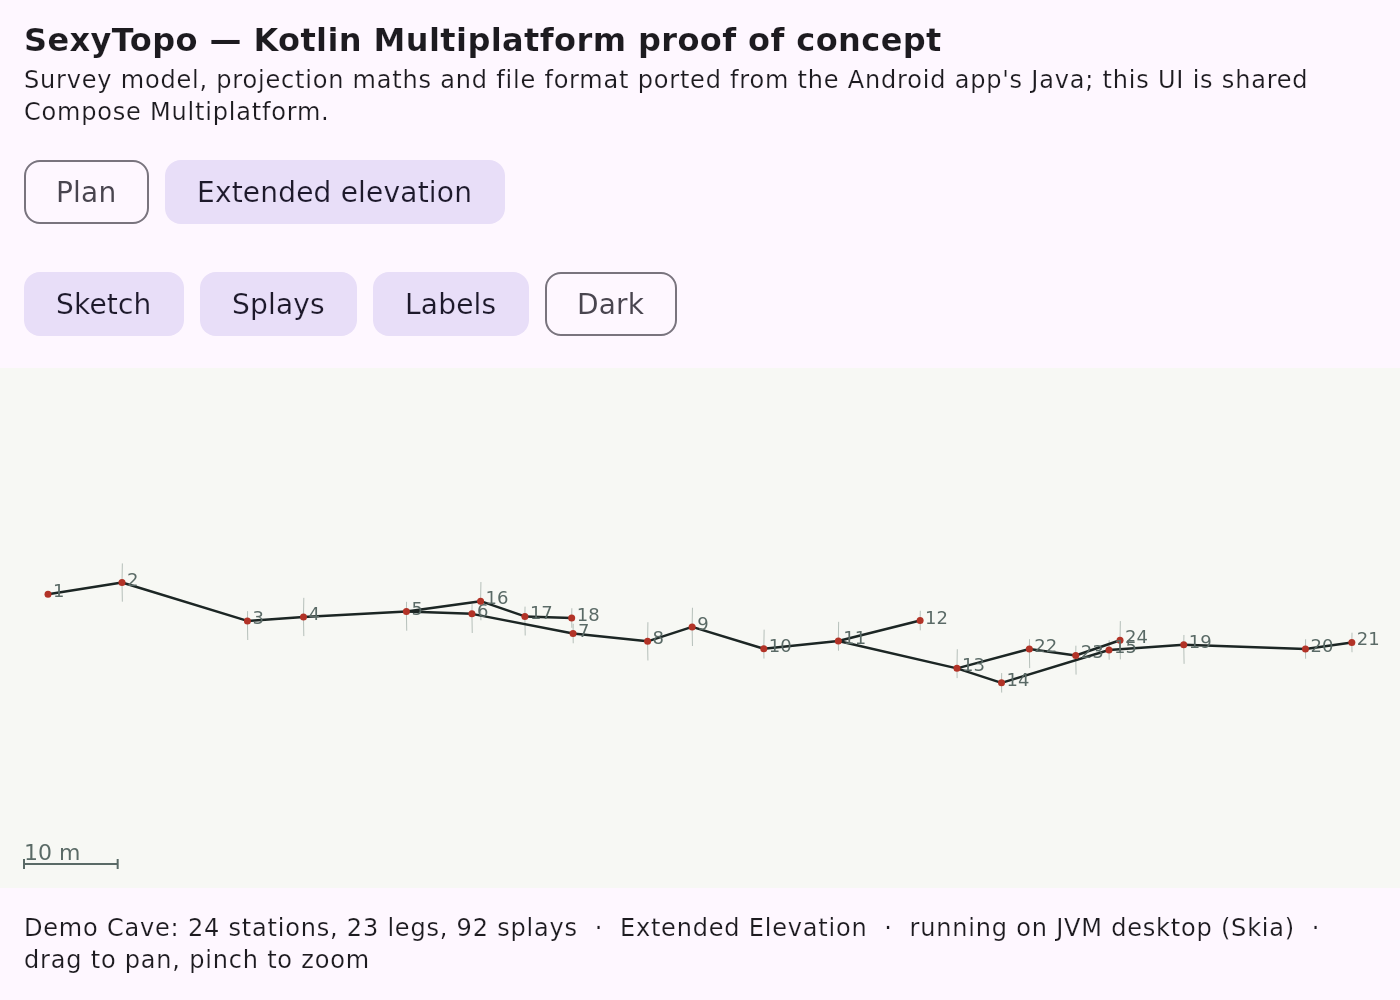
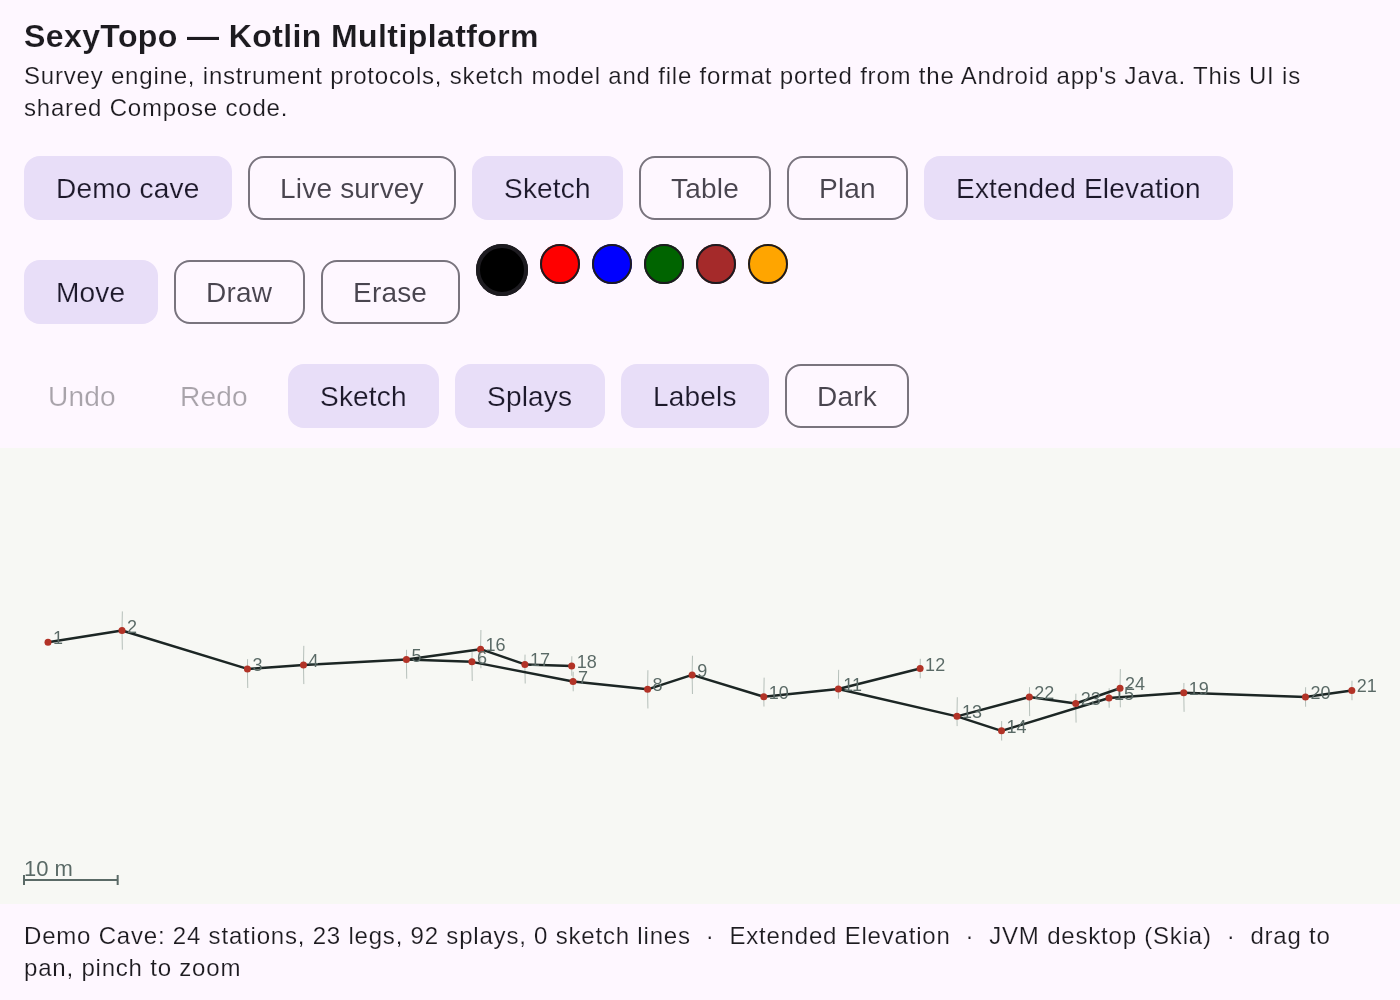
Add the survey table screen, and fix a rounding divergence from Java
The table is the other half of the Android app's main UI. Its substance is not the
layout but the backwards-shot normalisation ported from
GraphToListTranslator.toAsTakenReading: a leg shot from the far station is stored
pointing the other way, so from/to are swapped and the reading reversed, or the
displayed numbers disagree with the surveyor's notebook.

Writing its number formatting turned up a real divergence. commonMain has no
String.format, and the obvious replacement -- kotlin.math.round -- is ties-to-even
(it maps to Math.rint), while Java's Formatter is HALF_UP. round(2.5) gives 2, not
3. Every number the Android app has ever written to a Therion or Survex file uses
HALF_UP, so the port now does floor(x + 0.5) and a test pins it. The exporters will
need exactly the same behaviour.

Nine more tests, and demo renders now include the table.

Claude-Session: https://claude.ai/code/session_01EsWeeGYHa4RrEbZW2iXKma

diff --git a/kmp/demo/src/commonMain/kotlin/org/hwyl/sexytopo/demo/SurveyTableView.kt b/kmp/demo/src/commonMain/kotlin/org/hwyl/sexytopo/demo/SurveyTableView.kt
@@ -1,0 +1,165 @@
+package org.hwyl.sexytopo.demo
+
+import androidx.compose.foundation.background
+import androidx.compose.foundation.horizontalScroll
+import androidx.compose.foundation.layout.Column
+import androidx.compose.foundation.layout.Row
+import androidx.compose.foundation.layout.fillMaxSize
+import androidx.compose.foundation.layout.fillMaxWidth
+import androidx.compose.foundation.layout.padding
+import androidx.compose.foundation.layout.width
+import androidx.compose.foundation.lazy.LazyColumn
+import androidx.compose.foundation.lazy.items
+import androidx.compose.foundation.rememberScrollState
+import androidx.compose.material3.HorizontalDivider
+import androidx.compose.material3.MaterialTheme
+import androidx.compose.material3.Text
+import androidx.compose.runtime.Composable
+import androidx.compose.runtime.remember
+import androidx.compose.ui.Modifier
+import androidx.compose.ui.text.font.FontWeight
+import androidx.compose.ui.unit.dp
+import androidx.compose.ui.unit.sp
+import org.hwyl.sexytopo.shared.model.survey.Leg
+import org.hwyl.sexytopo.shared.model.survey.Station
+import org.hwyl.sexytopo.shared.model.survey.Survey
+import org.hwyl.sexytopo.shared.survey.asBacksight
+
+/**
+ * The survey table — the other half of the Android app's main UI, alongside the sketch.
+ *
+ * The interesting part is not the layout but [asTakenRows]: a leg shot backwards is stored pointing
+ * the other way, and both the table and every exporter must show the reading *as the surveyor took
+ * it*, or the numbers will not match their notes.
+ */
+@Composable
+fun SurveyTableView(survey: Survey, revision: Int, modifier: Modifier = Modifier) {
+    val rows = remember(survey, revision) { asTakenRows(survey) }
+
+    Column(modifier.fillMaxSize()) {
+        Row(
+            Modifier
+                .fillMaxWidth()
+                .background(MaterialTheme.colorScheme.surfaceVariant)
+                .horizontalScroll(rememberScrollState())
+                .padding(horizontal = 12.dp, vertical = 6.dp),
+        ) {
+            HeaderCell("From", 64.dp)
+            HeaderCell("To", 64.dp)
+            HeaderCell("Distance", 92.dp)
+            HeaderCell("Azimuth", 84.dp)
+            HeaderCell("Inclination", 92.dp)
+        }
+        HorizontalDivider()
+
+        LazyColumn(Modifier.fillMaxSize()) {
+            items(rows) { row ->
+                Row(Modifier.fillMaxWidth().padding(horizontal = 12.dp, vertical = 3.dp)) {
+                    Cell(row.from, 64.dp)
+                    Cell(row.to, 64.dp)
+                    Cell(row.distance, 92.dp)
+                    Cell(row.azimuth, 84.dp)
+                    Cell(row.inclination, 92.dp)
+                }
+            }
+        }
+    }
+}
+
+@Composable
+private fun HeaderCell(text: String, width: androidx.compose.ui.unit.Dp) {
+    Text(
+        text,
+        Modifier.width(width),
+        style = MaterialTheme.typography.labelSmall,
+        fontWeight = FontWeight.SemiBold,
+    )
+}
+
+@Composable
+private fun Cell(text: String, width: androidx.compose.ui.unit.Dp) {
+    Text(text, Modifier.width(width), fontSize = 12.sp, style = MaterialTheme.typography.bodySmall)
+}
+
+/** One row of the table, already formatted. */
+class SurveyTableRow(
+    val from: String,
+    val to: String,
+    val distance: String,
+    val azimuth: String,
+    val inclination: String,
+)
+
+/**
+ * Flattens the survey tree into table rows in chronological order, normalising backwards shots.
+ *
+ * Ported from `GraphToListTranslator.toAsTakenReading`: a leg with `wasShotBackwards` is stored
+ * with the reading taken at the far station but attached in the opposite direction, so from/to are
+ * swapped and the leg is converted to its backsight before being displayed.
+ */
+fun asTakenRows(survey: Survey): List<SurveyTableRow> {
+    val rows = mutableListOf<SurveyTableRow>()
+
+    for (station in survey.getAllStations()) {
+        for (leg in station.onwardLegs) {
+            rows.add(rowFor(station, leg))
+        }
+    }
+    return rows
+}
+
+private fun rowFor(from: Station, leg: Leg): SurveyTableRow {
+    val (fromName, toName, reading) =
+        if (leg.wasShotBackwards) {
+            Triple(leg.destination.name, from.name, leg.asBacksight())
+        } else {
+            Triple(from.name, if (leg.hasDestination()) leg.destination.name else SPLAY, leg)
+        }
+
+    return SurveyTableRow(
+        from = fromName,
+        to = toName,
+        // Same precision as the Android app's TableCol formats: %.3f, %.2f, %+.2f.
+        distance = formatFixed(reading.distance, 3),
+        azimuth = formatFixed(reading.azimuth, 2),
+        inclination = formatFixed(reading.inclination, 2, alwaysSigned = true),
+    )
+}
+
+private const val SPLAY = "–"
+
+/**
+ * Fixed-decimal formatting, because commonMain has no `String.format`.
+ *
+ * Rounds half away from zero on the magnitude, matching Java's `Formatter` HALF_UP. This will move
+ * to the shared module alongside the exporters, which need exactly the same behaviour to reproduce
+ * Therion and Survex output byte for byte.
+ */
+fun formatFixed(value: Float, decimalPlaces: Int, alwaysSigned: Boolean = false): String {
+    if (value.isNaN()) return "NaN"
+    if (value.isInfinite()) return if (value > 0) "∞" else "-∞"
+
+    var scale = 1L
+    repeat(decimalPlaces) { scale *= 10 }
+
+    val magnitude = kotlin.math.abs(value.toDouble())
+    // floor(x + 0.5), NOT kotlin.math.round: Kotlin's round is ties-to-even (it maps to
+    // Math.rint), whereas Java's Formatter — and so every number the Android app has ever
+    // written to a Therion or Survex file — is HALF_UP. round(2.5) would give 2, not 3.
+    val scaled = kotlin.math.floor(magnitude * scale + 0.5).toLong()
+    val whole = scaled / scale
+    val fraction = scaled % scale
+
+    val sign =
+        when {
+            value < 0 -> "-"
+            alwaysSigned -> "+"
+            else -> ""
+        }
+
+    return if (decimalPlaces == 0) {
+        "$sign$whole"
+    } else {
+        "$sign$whole.${fraction.toString().padStart(decimalPlaces, '0')}"
+    }
+}

diff --git a/kmp/demo/src/jvmTest/kotlin/org/hwyl/sexytopo/demo/SurveyTableTest.kt b/kmp/demo/src/jvmTest/kotlin/org/hwyl/sexytopo/demo/SurveyTableTest.kt
@@ -1,0 +1,109 @@
+package org.hwyl.sexytopo.demo
+
+import org.hwyl.sexytopo.shared.model.survey.Leg
+import org.hwyl.sexytopo.shared.model.survey.Station
+import org.hwyl.sexytopo.shared.model.survey.Survey
+import org.hwyl.sexytopo.shared.survey.SurveyBuilder
+import kotlin.test.Test
+import kotlin.test.assertEquals
+import kotlin.test.assertTrue
+
+/**
+ * The table's job is to show what the surveyor wrote in their notes, which for a backwards shot is
+ * not what is stored. Getting this wrong makes every exported file disagree with the notebook.
+ */
+class SurveyTableTest {
+
+    @Test
+    fun aForwardLegIsShownAsStored() {
+        val survey = Survey("T")
+        SurveyBuilder.updateWithNewStation(survey, Leg(5.5f, 90f, 10f))
+
+        val row = asTakenRows(survey).single()
+        assertEquals("1", row.from)
+        assertEquals("2", row.to)
+        assertEquals("5.500", row.distance)
+        assertEquals("90.00", row.azimuth)
+        assertEquals("+10.00", row.inclination)
+    }
+
+    @Test
+    fun aBackwardsShotIsShownAsItWasTaken() {
+        // Stored 1 -> 2, but read at station 2 pointing back at 1. The table must show 2 -> 1 with
+        // the reversed bearing, matching the notebook.
+        val survey = Survey("T")
+        val destination = Station("2")
+        val leg = Leg(5f, 90f, 10f, destination, wasShotBackwards = true)
+        survey.origin.addOnwardLeg(leg)
+        survey.addLegRecord(leg)
+
+        val row = asTakenRows(survey).single()
+        assertEquals("2", row.from, "the reading was taken at the far station")
+        assertEquals("1", row.to)
+        assertEquals("270.00", row.azimuth, "bearing is reversed")
+        assertEquals("-10.00", row.inclination, "inclination is negated")
+    }
+
+    @Test
+    fun splaysAreShownWithNoDestination() {
+        val survey = Survey("T")
+        SurveyBuilder.addSplay(survey, survey.origin, Leg(1.25f, 45f, 0f))
+
+        val row = asTakenRows(survey).single()
+        assertEquals("1", row.from)
+        assertTrue(row.to.isNotEmpty() && row.to != "1", "a splay has no real destination")
+        assertEquals("1.250", row.distance)
+        assertEquals("+0.00", row.inclination)
+    }
+
+    @Test
+    fun everyLegAppearsExactlyOnce() {
+        val survey = Survey("T")
+        SurveyBuilder.updateWithNewStation(survey, Leg(5f, 0f, 0f))
+        SurveyBuilder.addSplay(survey, survey.activeStation, Leg(2f, 90f, 0f))
+        SurveyBuilder.updateWithNewStation(survey, Leg(6f, 10f, 0f))
+
+        assertEquals(survey.getAllLegs().size, asTakenRows(survey).size)
+    }
+
+    // ---------------------------------------------------------------------------------------
+    // Fixed-decimal formatting (commonMain has no String.format)
+    // ---------------------------------------------------------------------------------------
+
+    @Test
+    fun formattingMatchesJavaPrecision() {
+        assertEquals("5.500", formatFixed(5.5f, 3))
+        assertEquals("0.000", formatFixed(0f, 3))
+        assertEquals("12.35", formatFixed(12.345f, 2))
+        assertEquals("90.00", formatFixed(90f, 2))
+        assertEquals("100", formatFixed(99.7f, 0))
+    }
+
+    @Test
+    fun negativeValuesKeepTheirSign() {
+        assertEquals("-3.250", formatFixed(-3.25f, 3))
+        assertEquals("-0.50", formatFixed(-0.5f, 2), "a value between -1 and 0 must keep its minus")
+    }
+
+    @Test
+    fun theSignedFormatAlwaysShowsOne() {
+        // Java's "%+.2f", used for inclination so up and down are unmistakable.
+        assertEquals("+10.00", formatFixed(10f, 2, alwaysSigned = true))
+        assertEquals("-10.00", formatFixed(-10f, 2, alwaysSigned = true))
+        assertEquals("+0.00", formatFixed(0f, 2, alwaysSigned = true))
+    }
+
+    @Test
+    fun roundingIsHalfAwayFromZero() {
+        // Matching Java's Formatter HALF_UP, so exported numbers agree with the Android app.
+        assertEquals("2.5", formatFixed(2.45f, 1))
+        assertEquals("-2.5", formatFixed(-2.45f, 1))
+        assertEquals("3", formatFixed(2.5f, 0))
+    }
+
+    @Test
+    fun fractionalDigitsArePadded() {
+        assertEquals("1.050", formatFixed(1.05f, 3), "trailing zeros are kept, as %.3f does")
+        assertEquals("1.005", formatFixed(1.005f, 3))
+    }
+}

diff --git a/kmp/demo/src/commonMain/kotlin/org/hwyl/sexytopo/demo/App.kt b/kmp/demo/src/commonMain/kotlin/org/hwyl/sexytopo/demo/App.kt
@@ -42,6 +42,12 @@ import org.hwyl.sexytopo.shared.model.graph.Projection2D
 import org.hwyl.sexytopo.shared.model.sketch.Colour
 import org.hwyl.sexytopo.shared.model.survey.Survey
 
+/** Which screen is showing: the sketch, or the numbers behind it. */
+enum class Screen(val label: String) {
+    SKETCH("Sketch"),
+    TABLE("Table"),
+}
+
 /** Which survey the canvas is showing. */
 enum class SurveyMode(val label: String) {
     EXAMPLE("Demo cave"),
@@ -62,8 +68,10 @@ fun App(
     initialDarkMode: Boolean = false,
     initialTool: CanvasTool = CanvasTool.PAN,
     initialMode: SurveyMode = SurveyMode.EXAMPLE,
+    initialScreen: Screen = Screen.SKETCH,
 ) {
     var mode by remember { mutableStateOf(initialMode) }
+    var screen by remember { mutableStateOf(initialScreen) }
     var projection by remember { mutableStateOf(initialProjection) }
     var tool by remember { mutableStateOf(initialTool) }
     var brushColour by remember { mutableStateOf(Colour.BLACK) }
@@ -121,6 +129,9 @@ fun App(
                                 for (m in SurveyMode.entries) {
                                     FilterChip(mode == m, { mode = m }, { Text(m.label) })
                                 }
+                                for (sc in Screen.entries) {
+                                    FilterChip(screen == sc, { screen = sc }, { Text(sc.label) })
+                                }
                                 for (p in listOf(Projection2D.PLAN, Projection2D.EXTENDED_ELEVATION)) {
                                     FilterChip(
                                         projection == p,
@@ -153,6 +164,9 @@ fun App(
                             for (m in SurveyMode.entries) {
                                 FilterChip(mode == m, { mode = m }, { Text(m.label) })
                             }
+                            for (sc in Screen.entries) {
+                                FilterChip(screen == sc, { screen = sc }, { Text(sc.label) })
+                            }
                             for (p in listOf(Projection2D.PLAN, Projection2D.EXTENDED_ELEVATION)) {
                                 FilterChip(
                                     selected = projection == p,
@@ -166,7 +180,7 @@ fun App(
                             InstrumentBar(session)
                         }
 
-                        ToolbarRow {
+                        if (screen == Screen.SKETCH) ToolbarRow {
                             for (t in CanvasTool.entries) {
                                 FilterChip(tool == t, { tool = t }, { Text(t.displayName) })
                             }
@@ -180,7 +194,7 @@ fun App(
                             }
                         }
 
-                        ToolbarRow {
+                        if (screen == Screen.SKETCH) ToolbarRow {
                             TextButton(
                                 enabled = history.canUndo,
                                 onClick = {
@@ -200,6 +214,13 @@ fun App(
                         }
                         }
 
+                        if (screen == Screen.TABLE) {
+                            SurveyTableView(
+                                survey = shown,
+                                revision = sketchRevision + session.revision,
+                                modifier = Modifier.weight(1f).fillMaxWidth(),
+                            )
+                        } else
                         SurveyCanvas(
                             survey = shown,
                             projection = projection,

diff --git a/kmp/demo/src/jvmMain/kotlin/org/hwyl/sexytopo/demo/RenderPng.kt b/kmp/demo/src/jvmMain/kotlin/org/hwyl/sexytopo/demo/RenderPng.kt
@@ -55,6 +55,10 @@ fun main() {
 
     // A survey built the way the app really builds one: readings decoded from DistoX wire-format
     // packets, three agreeing readings promoted to a station by the ported survey engine.
+    render("table.png", 1400, 1000) {
+        App(survey = survey, initialScreen = Screen.TABLE)
+    }
+
     render("live-survey.png", 1400, 1000) {
         App(survey = buildSurveyFromInstrument(), initialProjection = Projection2D.PLAN)
     }
